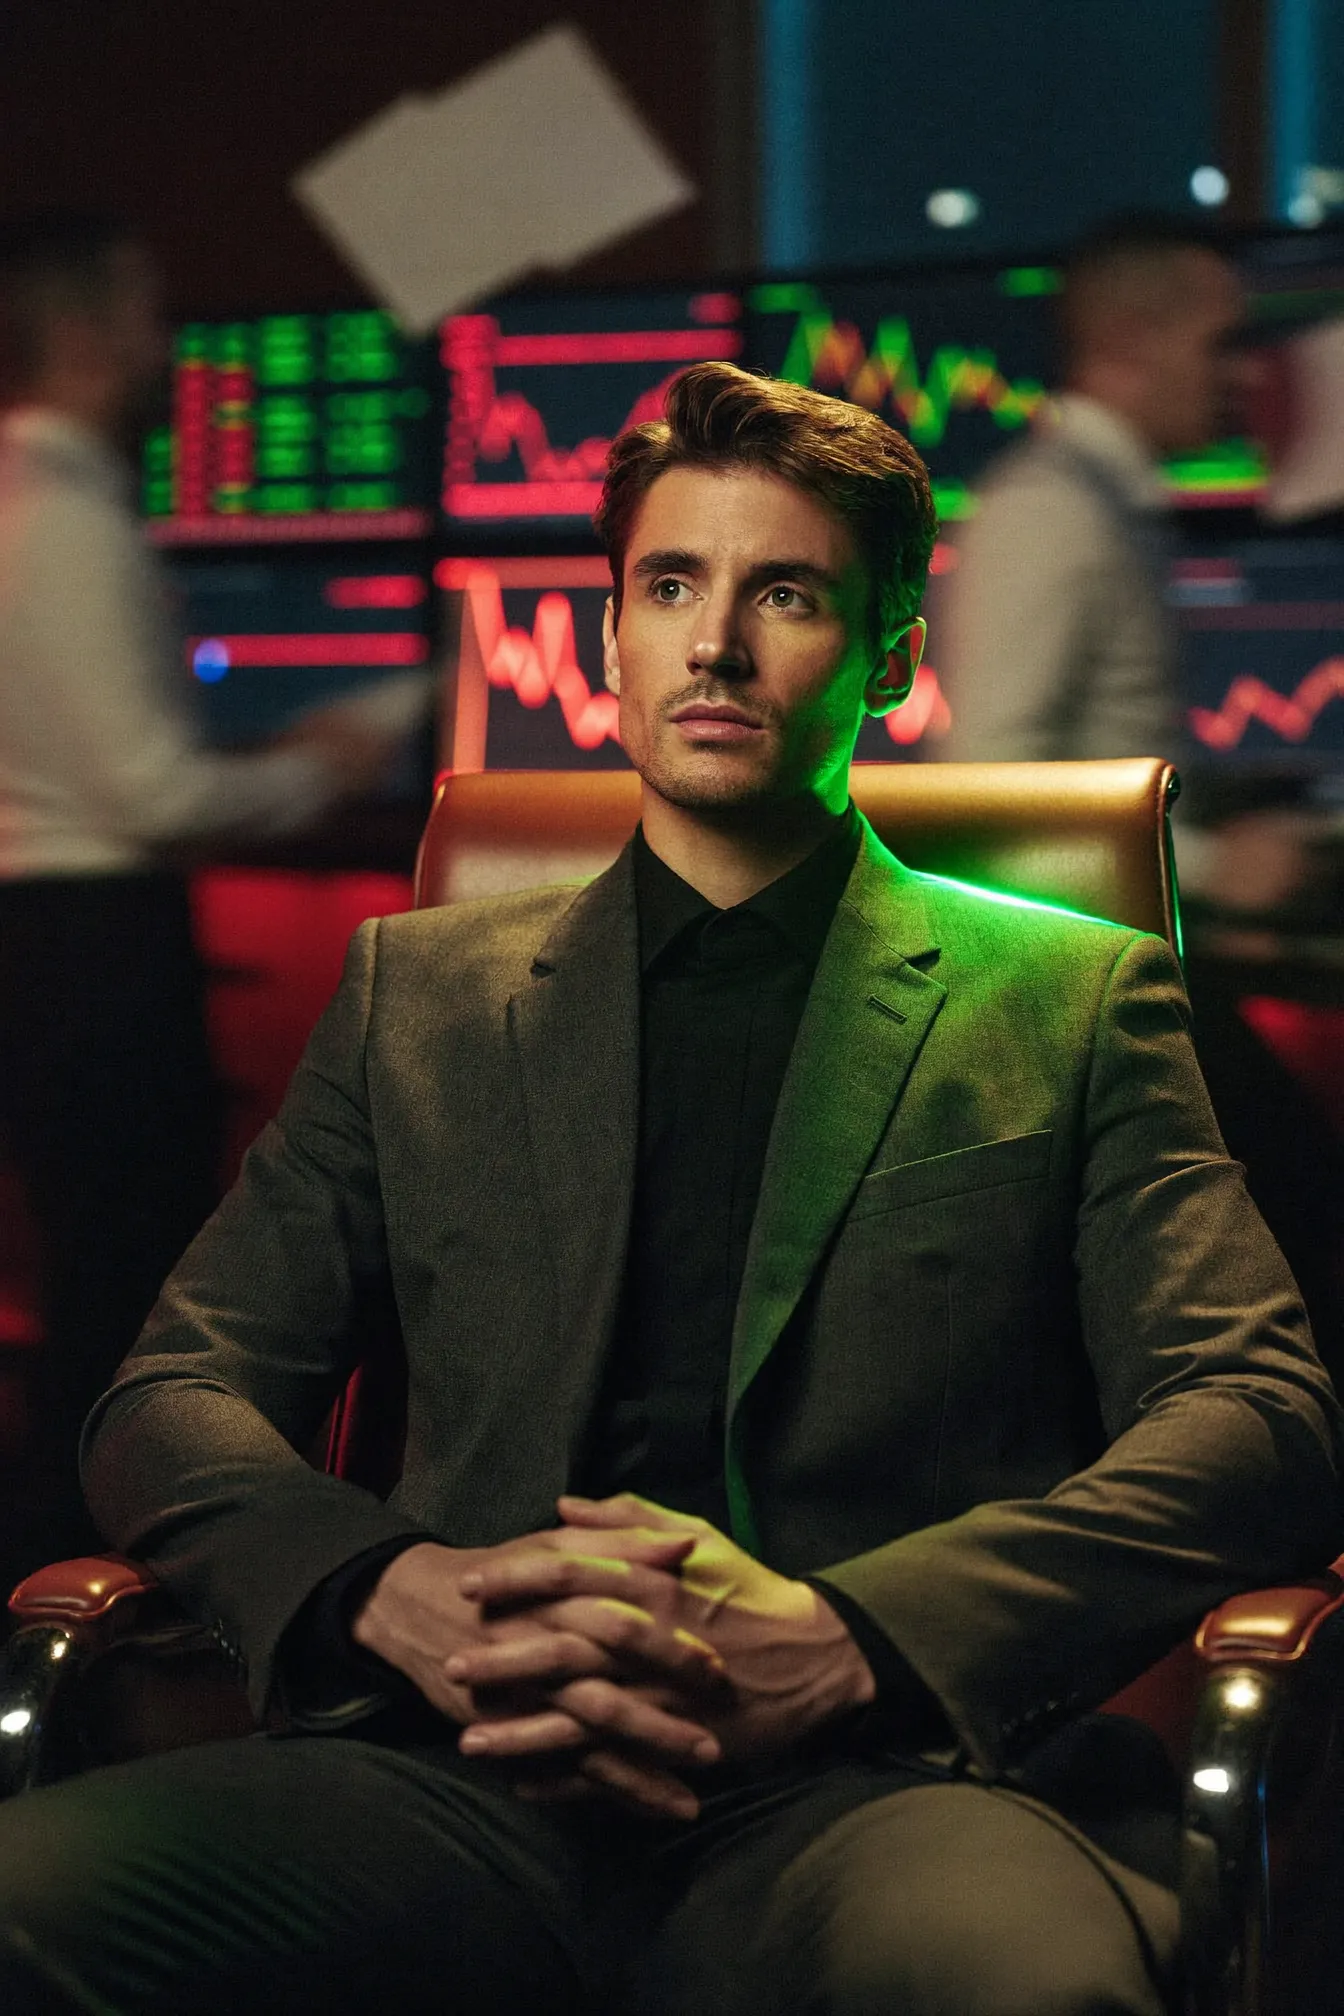
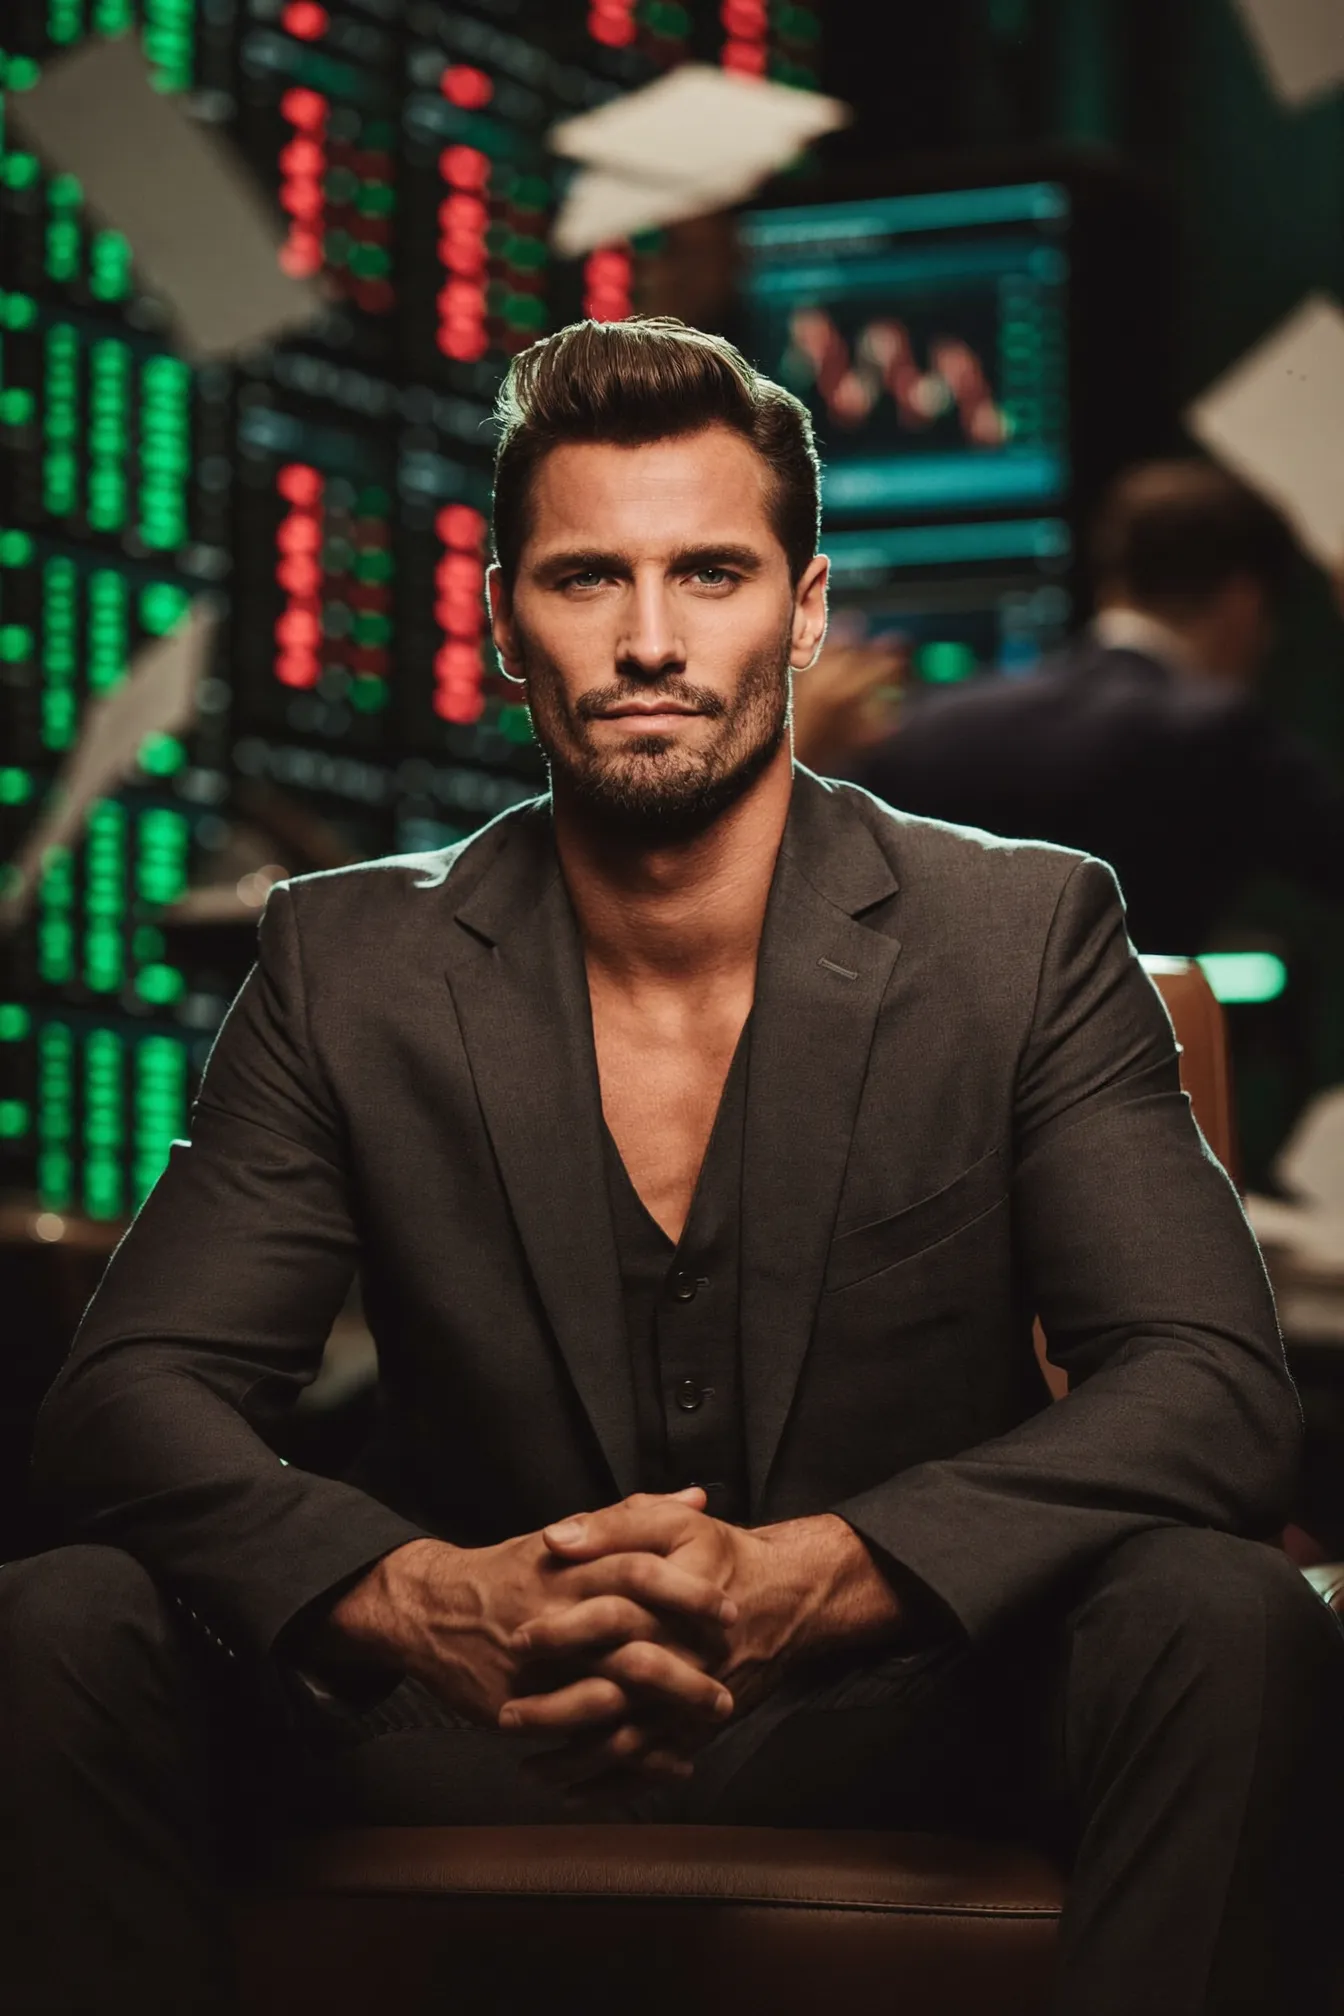
Character revisions: flame-shaped Ember, Chad Holder, casual ABG Diamond Hands
Ember reworked from slime-blob to a proper little flame with licking
two-tone fire tongues. Holder regenerated with movie-star chad looks.
Diamond Hands dialed back from fashion-week glam to classic casual ABG
(boba, money pieces, hoops, flash photo). CHARACTERS.md tracks all
rounds and supersessions.

Claude-Session: https://claude.ai/code/session_01JCEh5J7st5Xbnc4PcNqDTx

diff --git a/brand/characters/CHARACTERS.md b/brand/characters/CHARACTERS.md
@@ -13,9 +13,9 @@ Winner previews live in this folder as `.webp`. Full-res PNGs + all variants are
 
 The flagship. A calm, impeccably dressed European man (user note 2026-07-23: Holder is European) who simply does not move while the market melts around him. Not smug — serene, like someone who already knows how it ends. Carries the hero spot and the credibility spot. Candidate for a locked reusable identity (save as Higgsfield Element, or train a Soul from 5+ generated angles) so he stays the same face across every commercial.
 
-- Winner (European, v2 variant A): job `3e0e2feb-d704-46b0-9ba3-251c276f8454` — [full PNG](https://d8j0ntlcm91z4.cloudfront.net/user_3F0bg3gqnKNYI7531IfsTzvahFf/hf_20260723_041031_3e0e2feb-d704-46b0-9ba3-251c276f8454.png)
-- Alt (European, v2 variant B, moody profile — screen text garbled): job `d5d3a7c0-beb1-41f8-af91-843ddf460f1e` — [full PNG](https://d8j0ntlcm91z4.cloudfront.net/user_3F0bg3gqnKNYI7531IfsTzvahFf/hf_20260723_041031_d5d3a7c0-beb1-41f8-af91-843ddf460f1e.png)
-- Superseded v1 (non-European): jobs `c951bbf6-bee3-4b3f-b714-8b197db7ad29`, `c05d8eb3-d507-4e8f-bb73-4f855de23c59`
+- Winner (v3 "Chad" round, 2026-07-23): job `ed0c4e89-04a9-4d17-a791-d7a885b6cb58` — [full PNG](https://d8j0ntlcm91z4.cloudfront.net/user_3F0bg3gqnKNYI7531IfsTzvahFf/hf_20260723_050306_ed0c4e89-04a9-4d17-a791-d7a885b6cb58.png). Chiseled jaw, groomed beard, swept-back hair, broad shoulders, open collar, dominant calm eye contact.
+- Alt (v3 variant B): job `e44eadca-d3d9-4a63-bc4b-4d8018dde564` — [full PNG](https://d8j0ntlcm91z4.cloudfront.net/user_3F0bg3gqnKNYI7531IfsTzvahFf/hf_20260723_050306_e44eadca-d3d9-4a63-bc4b-4d8018dde564.png)
+- Earlier rounds (superseded): European v2 jobs `3e0e2feb-d704-46b0-9ba3-251c276f8454`, `d5d3a7c0-beb1-41f8-af91-843ddf460f1e` (not chad enough); v1 jobs `c951bbf6-bee3-4b3f-b714-8b197db7ad29`, `c05d8eb3-d507-4e8f-bb73-4f855de23c59` (non-European)
 - Model: `soul_2`, 2:3
 
 ### 2. Diamond Hands — the icon (ABG)
@@ -23,10 +23,10 @@ The flagship. A calm, impeccably dressed European man (user note 2026-07-23: Hol
 
 She IS "diamond hands," literally — the meme made luxury. Direction (user note 2026-07-23): ABG aesthetic — early-20s Asian-American, balayage, winged liner, gold hoops, layered gold chains, black going-out fit — shot like a high-end jewelry ad with hands of faceted crystal catching the single green light. Still-image icon of the holding thesis: posters, OG images, hero stills.
 
-- Winner (glam round, "more ABG Instagram model top quality" 2026-07-23): job `4706a042-7045-4d13-a6c2-32a7418f16cd` — [full PNG](https://d8j0ntlcm91z4.cloudfront.net/user_3F0bg3gqnKNYI7531IfsTzvahFf/hf_20260723_042916_4706a042-7045-4d13-a6c2-32a7418f16cd.png). Flash-photo IG editorial: cat-eye glam, curled balayage, gold chains + body chain, crystal stiletto nails catching the green glint.
-- Glam-round alts: jobs `09b9bf22-b4c7-479d-9449-e98f44c0a470`, `5e7a3cbb-2ffd-4739-8cbf-ede03db10f06` (strong flash editorials, read less specifically ABG)
-- Earlier rounds (superseded): ABG v1 jobs `a883c1c3-969a-4d99-a4e6-063e175dae84` (hands fully crystallized), `4bd0254b-c3bc-4376-b2b6-8b5fd9c31018`; non-ABG "Glass Hands" jobs `f0c618c9-29b1-4760-b503-fea213850dc6`, `06b82991-aaf3-49de-832f-81499236eb23`
-- Note: in the glam round the "hands made of crystal" reads as crystal stiletto nails + jewels rather than fully crystallized hands — if the literal meme matters for a given asset, composite or re-prompt from the v1 winner.
+- Winner (v3 casual round — "we talking Asian baby girl" 2026-07-23): job `fd908ebf-70e1-4e78-8357-59c6287bd5cc` — [full PNG](https://d8j0ntlcm91z4.cloudfront.net/user_3F0bg3gqnKNYI7531IfsTzvahFf/hf_20260723_050118_fd908ebf-70e1-4e78-8357-59c6287bd5cc.png). Classic ABG: boba in hand (real pearls), money-piece highlights with tiny braids, wispy lashes, big hoops, black crop tank, peace sign, green glitter nails, phone-flash photo.
+- v3 alts: job `7f78fbdf-6337-4539-b6fd-430629f28abc` (iced coffee, sleek slicked hair, green chrome nails), `7b4d82f9-84f4-4597-87f2-9e19d6ff3c8d`
+- Earlier rounds (superseded): glam-editorial jobs `4706a042-7045-4d13-a6c2-32a7418f16cd`, `09b9bf22-b4c7-479d-9449-e98f44c0a470`, `5e7a3cbb-2ffd-4739-8cbf-ede03db10f06` (too much / fashion-week baddie); ABG v1 jobs `a883c1c3-969a-4d99-a4e6-063e175dae84` (hands fully crystallized), `4bd0254b-c3bc-4376-b2b6-8b5fd9c31018`; non-ABG "Glass Hands" jobs `f0c618c9-29b1-4760-b503-fea213850dc6`, `06b82991-aaf3-49de-832f-81499236eb23`
+- Note: the "diamond hands" surreal detail is now carried by the crystal/glitter nails. For posters needing the literal fully-crystallized hands, re-prompt from the ABG v1 winner.
 - Model: `soul_2`, 2:3
 
 ### 3. The Teller — old money for everyone
@@ -51,11 +51,11 @@ Comedic foil. Sweaty, panicking, hands literally folded from white paper — one
 ### 5. The Ember — mascot (cute claymation)
 ![The Ember](the-ember.webp)
 
-Direction (user notes 2026-07-23): claymation / live-action styling, CUTE, and just an ember — do NOT sculpt the candle/logo silhouette into the puppet (that read as a monstrosity). Final form: a small chubby teardrop blob of glossy green plasticine, kawaii proportions, big button eyes, tiny smile, faintly glowing curled tip, fingerprints visible in the clay, living on cozy miniature near-black sets (tiny CRT with green chart, tiny "E" mug). The logo stays the logo; the mascot is its own cute creature.
+Direction (user notes 2026-07-23, three rounds): claymation / live-action styling, CUTE, just an ember (not the logo silhouette — that read as a monstrosity), and unmistakably FIRE, not slime (the plain blob read as a drop of goo). Final form: a little green plasticine flame with lively licking flame-tongues in two greens, kawaii face — big glossy button eyes, tiny happy smile — stubby arms and feet, dancing on cozy warm miniature sets (tiny CRT with rising green arrow, tiny books, desk lamp).
 
-- Winner (cute variant A — button eyes, curled glowing tip, "STOCK UP!" CRT, tiny E mug): job `96fd4edc-5dd7-4761-a87e-b6eaac24b015` — [full PNG](https://d8j0ntlcm91z4.cloudfront.net/user_3F0bg3gqnKNYI7531IfsTzvahFf/hf_20260723_042346_96fd4edc-5dd7-4761-a87e-b6eaac24b015.png)
-- Alt (cute variant B — bead eyes, softer, cleaner): job `a3c687e4-ee50-454a-81bc-628c96288baf` — [full PNG](https://d8j0ntlcm91z4.cloudfront.net/user_3F0bg3gqnKNYI7531IfsTzvahFf/hf_20260723_042346_a3c687e4-ee50-454a-81bc-628c96288baf.png)
-- Superseded: logo-silhouette clay puppet (jobs `a0c1506e-f020-4036-95af-ee677be08f9c`, `a7518215-16bf-484e-b293-aa4d06eb01e0`) and the flat-vector 6-pose sheet (`the-ember-flat-sheet-reference.webp`, kept only as a pose-ideas reference)
+- Winner (flame round, variant A — mid-dance wave, two-tone flame tongues, CRT with arrow): job `4e30a9de-1979-49bf-a92c-a559bd1e9cdb` — [full PNG](https://d8j0ntlcm91z4.cloudfront.net/user_3F0bg3gqnKNYI7531IfsTzvahFf/hf_20260723_050302_4e30a9de-1979-49bf-a92c-a559bd1e9cdb.png)
+- Alt (flame round, variant B): job `852b2052-3d6d-4202-a831-c7629b987adf` — [full PNG](https://d8j0ntlcm91z4.cloudfront.net/user_3F0bg3gqnKNYI7531IfsTzvahFf/hf_20260723_050302_852b2052-3d6d-4202-a831-c7629b987adf.png)
+- Earlier rounds (superseded): slime-y cute blobs (jobs `96fd4edc-5dd7-4761-a87e-b6eaac24b015`, `a3c687e4-ee50-454a-81bc-628c96288baf`), logo-silhouette clay puppet (jobs `a0c1506e-f020-4036-95af-ee677be08f9c`, `a7518215-16bf-484e-b293-aa4d06eb01e0`), flat-vector 6-pose sheet (`the-ember-flat-sheet-reference.webp`, pose-ideas reference only)
 - Model: `nano_banana_pro`, 3:2
 - Video note: animate via image-to-video from these stills with stop-motion cadence (slightly stepped 12fps feel) to sell the handcrafted look.
 